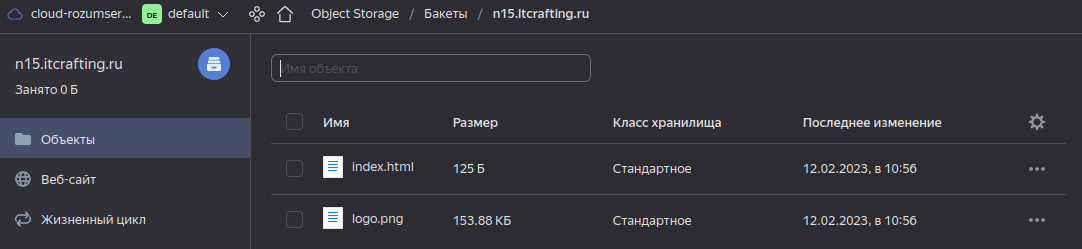
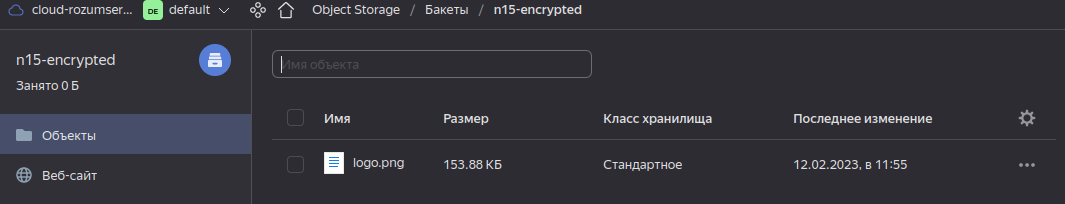
Update 15.3

diff --git a/15.3.md b/15.3.md
@@ -16,22 +16,26 @@
 Судя по [руководству](https://cloud.yandex.ru/docs/storage/tutorials/server-side-encryption) шифроваться будут только новые объекты, бакет и объект созданы заново.
 
 Манифесты:
-- [provider.tf](./15.3/yandex/provider.tf) - провайдер и его настройка
-- [variables.tf](./15.3/yandex/variables.tf) - переменные
-- [serviceaccount.tf](./15.3/yandex/serviceaccount.tf) - сервис аккаунт, он необходим чтобы работать с Object Storage через Terraform
-- [storage.tf](./15.3/yandex/storage.tf) - бакеты и объекты в Object Storage, интеграция с KMS
-- [kms.tf](./15.3/yandex/kms.tf) - ключ KMS
+- [version.tf](./15.3/terraform/version.tf) - провайдер и его настройка
+- [security.tf](./15.3/terraform/security.tf) - сервис аккаунт, он необходим чтобы работать с Object Storage через Terraform
+- [backet.tf](./15.3/terraform/backet.tf) - бакеты и объекты в Object Storage, интеграция с KMS
+- [kms.tf](./15.3/terraform/kms.tf) - ключ KMS
 
 1. Применяю манифест
 ![](./15.3/img/1.1.png)
+
 1. Ключ добавлен
 ![](./15.3/img/1.2.png)
+
 1. Добавлены бакеты
 ![](./15.3/img/1.3.png)
+
 1. Для бакета `n15-encrypted` настроено шифрование
 ![](./15.3/img/1.4.png)
+
 1. В бакете один файл, по общему описанию непонятно, он зашифрован или нет
 ![](./15.3/img/1.5.png)
+
 1. Если "провалиться" в файл, то там будут те же данные, что в таблице в общем списке, и непонятно зашифрован объёкт или нет.
 ![](./15.3/img/1.6.png)
 
@@ -46,14 +50,19 @@
 
 1. Загрузил сертификат
 ![](./15.3/img/2.1.png)
+
 1. Настройл HTTPS
 ![](./15.3/img/2.2.png)
+
 1. Настроил хостинг для статики
 ![](./15.3/img/2.3.png)
+
 1. Файлы были загружены тераформом в первой части задания
 ![](./15.3/img/2.4.png)
+
 1. По инструкции, настроил CNAME запись в DNS домена, ссылающуюся на бакет в Яндексе
 ![](./15.3/img/2.5.1.png)
+
 1. Проверил, что страница загружается и защищена сертификатом.
 ![](./15.3/img/2.6.1.png)
 
